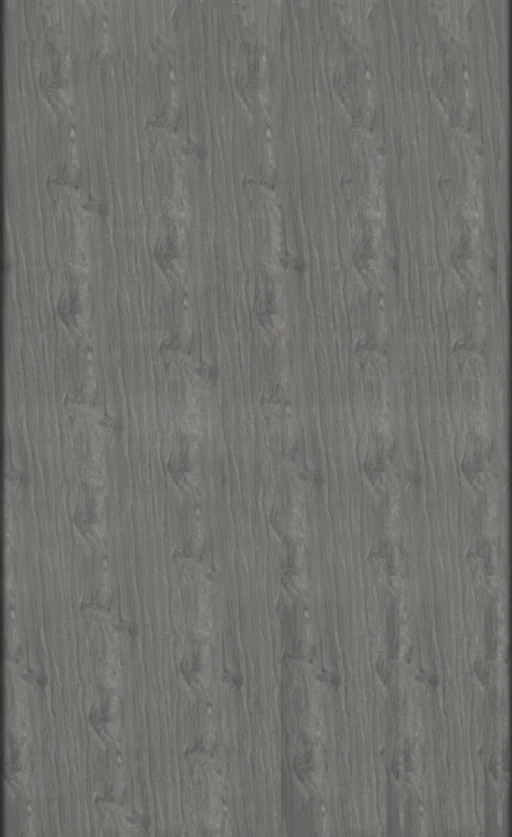
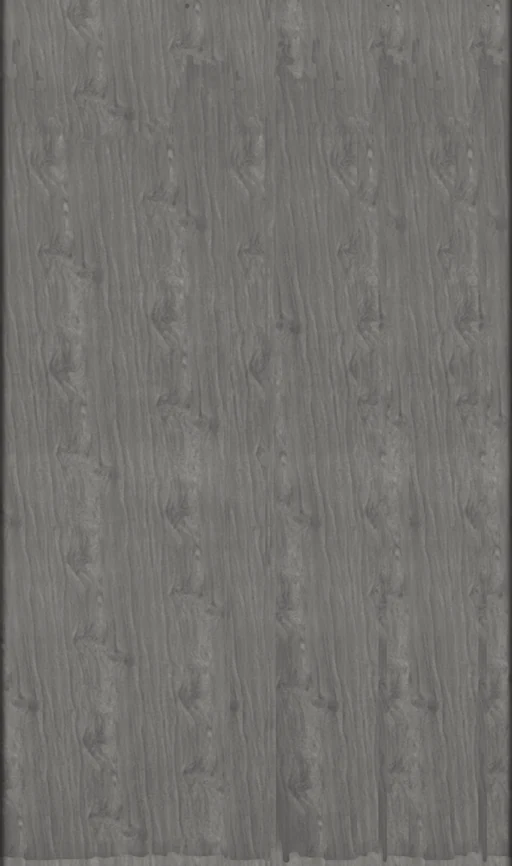
Konfigurátor: rozměry 3D náhledu z výrobního výkresu
Do teď byly odečtené z fotek a skoro každý byl vedle. Výkres od UPS Housing
(1:100, půdorys a čtyři pohledy) dává 6,276 x 5,850 (bočnice 5,400), výška
boxu 2,337 a předsazení středního modulu 225 mm místo dosavadních 45.

Otvorů je devět a jsou jen tří druhů: 8x okno 1120 x 1100 po dvou na každé
stěně, 1x 700 x 400 vzadu uprostřed a vstupní dveře 1500 x 2190. Model dosud
kreslil okna ve čtyřech různých velikostech podle toho, jak vypadala na fotkách.

Kóta 2337 je výška boxu včetně ocelových rámů, ne výška fasádního panelu;
čísla 70 a 95 jsou patky pod boxem a střešní nástavba nad ním. Výšku rámů
výkres nekótuje, je změřená z rektifikované fotky: horní pás 0,242, panel
1,945, sokl 0,150. Textura fasády se tomu musela přizpůsobit, rozteč kresby
prken vychází na 0,225 m.

Štít se kreslí po modulech, každý v rovině svého modulu — jeden štít přes celou
šířku ležel před bočními moduly a zakrýval jejich horní ocelový pás, takže na
průčelí chyběla černá příčka mezi stěnou a střechou. Lem štítu se sází na hranu
střechy, ne před ni; ze štěrbiny mezi ním a střechou byl vidět podhled jako
světlý klín.

diff --git a/assets/flexi-3d.js b/assets/flexi-3d.js
@@ -1,7 +1,7 @@
 (function (global) {
 'use strict';
 
-var TEX_VERZE = '2';
+var TEX_VERZE = '3';
 
 var TEX = {
   wood:      { soubor: 'fasada.webp',       normala: 'fasada_n.webp' },
@@ -31,12 +31,16 @@ var MAT = {
   teren:   { tex: null, tint: [0.30, 0.30, 0.29], rough: 0.95, metal: 0.00, teren: 1 }
 };
 
-var W_OPEN = 6.32, W_FOLD = 2.20, D = 5.90, H = 2.35, LIFT = 0.11;
+var W_OPEN = 6.276, W_FOLD = 2.250, D = 5.85, H = 2.337, LIFT = 0.070;
 var STRANA = (W_OPEN - W_FOLD) / 2;
 var PANEL = 1.15;                 
 var PODHLED_DLAZ = 0.66;          
 var RAM_S = 0.062;                
-var SOKL = 0.245, PREKLAD = 0.225;  
+var SOKL = 0.150, PREKLAD = 0.242;  
+var OKNO_W = 1.120, OKNO_H = 1.100, OKNO_PARAPET = 0.80;
+var OKNO_MALE_W = 0.700, OKNO_MALE_H = 0.400, OKNO_MALE_PARAPET = 1.55;
+var DVERE_W = 1.500, DVERE_H = 2.190;
+var OKNO_OD_ROHU = 1.43;
 var PRESAH = 0.26;                
 var FASADA_Z = 0.022;             
 
@@ -549,7 +553,7 @@ function Scena(canvas, opt) {
     var panelH = panelY1 - panelY0;
     var pal = S.facade === 'grey' ? 'grey' : (S.facade === 'black' ? 'black' : 'wood');
 
-    var KROK = 0.045;
+    var KROK = 0.225;
     var moduly = [];
     if (half - W_FOLD / 2 > 0.06) {
       moduly.push({ x0: -half, x1: -W_FOLD / 2, zF: zF - KROK, zB: zB + KROK, stred: false });
@@ -570,22 +574,15 @@ function Scena(canvas, opt) {
       }
       if (strana === 'front') {
         if (m.stred) {
-          var dw = Math.min(1.98, (b - a) - 0.10), dh = vyskaPole - 0.10;
-          out.push({ u: stred - dw / 2 - a, v: 0.05, w: dw, h: dh,
-            podil: [0.17, 0.33, 0.33, 0.17], hloubka: 0.080, ram: 0.062, dvere: true });
-        } else if (stred < 0) {
-          pridej(stred + 0.02, 1.32, 1.04, 0.96, { tabuli: 2 });
+          out.push({ u: stred - DVERE_W / 2 - a, v: 0.02, w: DVERE_W, h: DVERE_H,
+            podil: [0.5, 0.5], hloubka: 0.080, ram: 0.062, dvere: true });
         } else {
-          pridej(stred + 0.06, 0.94, 0.80, 1.16, { tabuli: 2 });
+          pridej(stred, OKNO_W, OKNO_H, OKNO_PARAPET, { tabuli: 2 });
         }
+      } else if (m.stred) {
+        pridej(stred, OKNO_MALE_W, OKNO_MALE_H, OKNO_MALE_PARAPET, { tabuli: 1 });
       } else {
-        if (m.stred) {
-          pridej(stred + 0.02, 0.50, 0.50, 1.42, { tabuli: 1 });
-        } else if (stred < 0) {
-          pridej(stred - 0.04, 1.30, 1.02, 1.00, { tabuli: 2 });
-        } else {
-          pridej(stred + 0.04, 1.30, 1.02, 1.00, { tabuli: 2 });
-        }
+        pridej(stred, OKNO_W, OKNO_H, OKNO_PARAPET, { tabuli: 2 });
       }
       return out;
     }
@@ -626,11 +623,12 @@ function Scena(canvas, opt) {
       var tileU = w / panelu;
       var otvory = [];
       if (S.fold > 0.45) {
-        var ok = o.ven > 0 ? { c: -0.35, w: 1.10, h: 0.88, p: 1.04 } : { c: 0.30, w: 0.92, h: 0.78, p: 1.12 };
-        var u = o.ven > 0 ? (b - ok.c - ok.w / 2) : (ok.c - ok.w / 2 - a);
-        if (u > 0.10 && u + ok.w < w - 0.10) {
-          otvory.push({ u: u, v: (LIFT + ok.p) - panelY0, w: ok.w, h: ok.h, tabuli: 2 });
-        }
+        [a + OKNO_OD_ROHU, b - OKNO_OD_ROHU].forEach(function (c) {
+          var u = (o.ven > 0 ? (b - c) : (c - a)) - OKNO_W / 2;
+          if (u > 0.10 && u + OKNO_W < w - 0.10) {
+            otvory.push({ u: u, v: (LIFT + OKNO_PARAPET) - panelY0, w: OKNO_W, h: OKNO_H, tabuli: 2 });
+          }
+        });
       }
       var rohBL, dirU, dirN;
       if (o.ven > 0) {
@@ -697,33 +695,38 @@ function Scena(canvas, opt) {
     }
 
     function stit(z, ven, otevreny, lemNa) {
-      var zk = z - ven * 0.02;
-      var yPata = y1 - PREKLAD;
       if (!otevreny) {
         var su = function (x) { return (ven > 0 ? x + half : half - x) / PANEL; };
         var sv = function (y) { return (y - panelY0) / panelH; };
-        [[-half, 0], [0, half]].forEach(function (c) {
-          var xl = c[0], xp = c[1];
-          var yl = podhledY(xl, zk), yp = podhledY(xp, zk);
-          var L0 = v3(xl, yPata, zk), P0 = v3(xp, yPata, zk);
-          var P1 = v3(xp, yp, zk), L1 = v3(xl, yl, zk);
-          var uL0 = [su(xl), sv(yPata)], uP0 = [su(xp), sv(yPata)];
-          var uP1 = [su(xp), sv(yp)], uL1 = [su(xl), sv(yl)];
-          if (ven > 0) sit.quad(pal, L0, P0, P1, L1, { uv: [uL0, uP0, uP1, uL1] });
-          else sit.quad(pal, P0, L0, L1, P1, { uv: [uP0, uL0, uL1, uP1] });
+        moduly.forEach(function (m) {
+          var zk = (ven > 0 ? m.zF : m.zB) - ven * 0.02;
+          var x0 = m.x0 - RAM_S, x1 = m.x1 + RAM_S;
+          var casti = (x0 < -0.01 && x1 > 0.01) ? [[x0, 0], [0, x1]] : [[x0, x1]];
+          casti.forEach(function (c) {
+            var xl = c[0], xp = c[1];
+            var yl = podhledY(xl, zk), yp = podhledY(xp, zk);
+            if (yl - y1 < 0.005 && yp - y1 < 0.005) return;
+            var L0 = v3(xl, y1, zk), P0 = v3(xp, y1, zk);
+            var P1 = v3(xp, yp, zk), L1 = v3(xl, yl, zk);
+            var uL0 = [su(xl), sv(y1)], uP0 = [su(xp), sv(y1)];
+            var uP1 = [su(xp), sv(yp)], uL1 = [su(xl), sv(yl)];
+            if (ven > 0) sit.quad(pal, L0, P0, P1, L1, { uv: [uL0, uP0, uP1, uL1] });
+            else sit.quad(pal, P0, L0, L1, P1, { uv: [uP0, uL0, uL1, uP1] });
+          });
         });
       }
-      var lemZ = (lemNa === undefined ? z : lemNa) + ven * 0.035;
+      var lemZ = (lemNa === undefined ? z : lemNa) - ven * 0.012;
       var kraje = [
-        [v3(-half - PRESAH, okapH, lemZ), v3(0, hreben, lemZ)],
-        [v3(0, hreben, lemZ), v3(half + PRESAH, okapH, lemZ)]
+        [v3(-half - PRESAH, okapH, lemZ), v3(0, hreben + 0.012, lemZ)],
+        [v3(0, hreben + 0.012, lemZ), v3(half + PRESAH, okapH, lemZ)]
       ];
       kraje.forEach(function (k) {
         var a = k[0], b = k[1];
+        var hloubka = okapH - okapD + 0.10;
         if (ven > 0) {
-          sit.quad('ocel', v3(a[0], a[1] - 0.19, a[2]), v3(b[0], b[1] - 0.19, b[2]), b, a, { tileU: 1.2, tileV: 0.35 });
+          sit.quad('ocel', v3(a[0], a[1] - hloubka, a[2]), v3(b[0], b[1] - hloubka, b[2]), b, a, { tileU: 1.2, tileV: 0.35 });
         } else {
-          sit.quad('ocel', v3(b[0], b[1] - 0.19, b[2]), v3(a[0], a[1] - 0.19, a[2]), a, b, { tileU: 1.2, tileV: 0.35 });
+          sit.quad('ocel', v3(b[0], b[1] - hloubka, b[2]), v3(a[0], a[1] - hloubka, a[2]), a, b, { tileU: 1.2, tileV: 0.35 });
         }
       });
     }

diff --git a/konfigurator.html b/konfigurator.html
@@ -132,7 +132,7 @@
 
 
 
-<script src="assets/flexi-3d.js?v=6"></script>
+<script src="assets/flexi-3d.js?v=7"></script>
 <script>
 const I = {
   home:    '<path d="M3 9l9-7 9 7v11a2 2 0 0 1-2 2H5a2 2 0 0 1-2-2z"/><path d="M9 22V12h6v10"/>',

diff --git a/.docs/3d/nastroje/textury.py b/.docs/3d/nastroje/textury.py
@@ -9,12 +9,20 @@ Textury nejsou kreslené, jsou to rektifikované výřezy z fotek. Fotka se pře
 homografii převede na kolmý pohled se známým měřítkem (px na metr), takže
 kresba na modelu vychází ve skutečné velikosti. Měřítko se opírá o:
 
-  fasáda   malé okno na zadní stěně (IMG_2285); jeho šířka plyne ze šířky
-           středního modulu 2,20 m, kterou dává katalog. Odtud rozteč kresby
-           prken ve fasádním plechu 0,215 m (ověřeno i na IMG_2289 a DJI_0173).
+  fasáda   malé okno na zadní stěně (IMG_2285) slouží jen jako čtyřbodová
+           reference pro homografii. Vodorovné měřítko drží šířka středního
+           modulu 2,250 m z výrobního výkresu, svislé výška panelu 2,335 m
+           (2500 celkem mínus rám 70 dole a 95 nahoře). Odtud rozteč kresby
+           prken ve fasádním plechu 0,225 m.
   prkna    rovina terasy se rektifikuje přes horizont a ohnisko z EXIF
            (IMG_2277, 14 mm). Výška fotoaparátu nad podlahou se dopočítá tak,
-           aby rozteč prken vyšla 0,148 m.
+           aby rozteč prken vyšla 0,148 m. Terasu výrobní výkres neřeší, tohle
+           číslo je pořád odečtené z fotek.
+
+OKNO_W a OKNO_H nejsou skutečné rozměry okna — je to jen čtyřbodová reference
+pro homografii, doladěná tak, aby rozteč kresby prken vyšla 0,225 m a výška
+plechu 2,335 m. Když se sáhne na jednu, druhá se posune taky, protože homografie
+není separabilní; hodnoty vznikly dvěma iteracemi.
 
 Kontrolní čísla vypisuje skript při běhu — když se rozteč po rektifikaci
 rozjede, měřítko sedí špatně.
@@ -29,7 +37,7 @@ FOTKY = os.path.join(KOREN, 'podklady-3d', 'fotky')
 CIL = os.path.join(KOREN, 'assets', 'tex')
 os.makedirs(CIL, exist_ok=True)
 
-PANEL_W, PANEL_H = 1.15, 1.88
+PANEL_W, PANEL_H = 1.15, 1.946
 PRKNO = 0.148
 DLAZDICE_PRKEN = 8
 
@@ -231,8 +239,8 @@ def zmensi(a, W, H):
     return np.asarray(obraz(a).resize((W, H), Image.LANCZOS), dtype=np.float32) / 255.
 
 
-OKNO_W, OKNO_H = 0.539, 0.560
-PLANKA = 0.220
+OKNO_W, OKNO_H = 0.5662, 0.5112
+PLANKA = 0.225
 FAS_PXM = 900.0
 FAS_OKNO = [(3352.2, 1464.3), (3829.9, 1477.5), (3829.0, 1980.2), (3330.9, 1975.6)]
 FAS_BILA = np.array([0.94994, 1.00057, 1.04949])
@@ -247,6 +255,17 @@ def rekt_zadni_stena():
     o, mimo = vzorkuj(a, H, 6600, 3400, ox=-3100, oy=-1300)
     o[mimo] = 0
     return np.clip(o / FAS_BILA, 0, 1.2)
+
+
+def svisly_rozsah(stena, x0, x1):
+    """Najde, kde na stěně začíná a končí fasádní plech; mimo něj je ocelový rám."""
+    P = FAS_PXM
+    pas = stena[:, int(x0 * P + 3100):int(x1 * P + 3100)]
+    mx, mn = pas.max(axis=2), pas.min(axis=2)
+    je = ((mx > 0.16) & ((mx - mn) / np.maximum(mx, 1e-3) > 0.22)
+          & (pas[..., 0] > pas[..., 1] * 1.25))
+    ys = np.where(je.mean(axis=1) > 0.6)[0]
+    return (ys.min() - 1300) / P, (ys.max() - 1300) / P
 
 
 def fasada():
@@ -265,7 +284,9 @@ def fasada():
         return A[int(y0 * P + 1300):int(y1 * P + 1300),
                  int(x0 * P + 3100):int(x1 * P + 3100)].copy()
 
-    X0, X1, Y0, Y1 = -0.578, 1.198, -0.03, 1.90
+    X0, X1 = -0.605, 1.253
+    Y0, Y1 = svisly_rozsah(stena, -0.58, -0.42)
+    print('  plech svisle %.3f .. %.3f m (%.3f m, panel %.3f)' % (Y0, Y1, Y1 - Y0, PANEL_H))
     c = vyrez(stena, X0, X1, Y0, Y1)
     m = vyrez(spatne, X0, X1, Y0, Y1)
     print('  zakryto oknem, růžicí a odlesky: %.1f %%' % (100 * m.mean()))

diff --git a/.docs/3d/STAV-3D.md b/.docs/3d/STAV-3D.md
@@ -143,18 +143,51 @@ návštěvník uvidí staré textury s novým modelem.
 
 ## Rozměry, které model používá
 
-Z webu (ověřené): 6,32 × 5,90 m rozloženo, 2,20 m složeno, výška 2,48 m.
+Od 25. 8. 2026 jsou z **výrobního výkresu** (UPS Housing, 01/01, měřítko 1:100,
+`~/Desktop/Expandable container house drawing.pdf`). Do té doby byly odečtené
+z fotek a většina byla vedle.
 
-Odečtené z fotek (poměry sedí, absolutní čísla čekají na doměření):
-- výška stěny 2,35 m, podlaha 0,11 m nad terénem
-- ocelový sokl 0,245 m, horní pás 0,225 m, sloupky 0,124 m
-- rozteč spár ve fasádním plechu 1,15 m
-- přesah střechy 0,26 m, lem 0,19 m, hřeben 1,24 m nad okapem (~20°)
-- terasa hluboká 2,15 m, prkna po 148 mm se spárou 5 mm
-- okna — průčelí: velké 1,32 × 1,04 (parapet 0,96), prosklené dveře
-  se dvěma světlíky přes skoro celý střední modul, menší vpravo 0,94 × 0,80
-  (parapet 1,16); zadní: 2× 1,30 × 1,02 (parapet 1,00), mezi nimi
-  0,50 × 0,50 (parapet 1,42); boky: vpravo 1,10 × 0,88, vlevo 0,92 × 0,78
+| co | model | výkres |
+|---|---|---|
+| šířka rozloženo | 6,276 | 2013 + 2250 + 2013 = 6276 |
+| střední (přepravní) modul | 2,250 | 2250 |
+| boční moduly | 2,013 | 2013 |
+| hloubka přes střední modul | 5,850 | 225 + 5400 + 225 = 5850 |
+| hloubka bočnice | 5,400 | 5400 |
+| výška boxu | 2,337 | 2337 |
+| pod boxem (patky) | 0,070 | 70 |
+| nad boxem (střecha) | — kreslí se zvlášť | 95 |
+| předsazení středního modulu | 0,225 | 225 na každé straně |
+
+**Kóta 2337 je výška boxu VČETNĚ ocelových rámů, ne výška fasádního panelu.**
+Výšku rámů výkres nekótuje, takže se bere z poměru změřeného na rektifikované
+fotce (IMG_2285): horní pás **0,242**, panel **1,945**, sokl **0,150**. Součet
+sedí na 2,337. Čísla 70 a 95 jsou patky pod boxem a střešní nástavba nad ním —
+kdo si je splete s rámy, dostane dům bez černé příčky nad okny.
+
+**Otvorů je devět a jsou jen tří druhů:**
+
+| označení | ks | rozměr | kde |
+|---|---|---|---|
+| W1 | 8 | 1120 × 1100 | po dvou na každé ze čtyř stěn |
+| W2 | 1 | 700 × 400 | zadní stěna, uprostřed, parapet 1,55 |
+| D1 | 1 | 1500 × 2190 | průčelí, uprostřed |
+
+Okna na bočnicích jsou 1,43 m od každého rohu, parapet všech W1 je 0,80 m nad
+spodkem boxu. D2 a D3 (800 × 2050) jsou dveře vnitřní, model je nekreslí.
+
+**Předsazení středního modulu je 225 mm, ne 45.** První kolo ho odečetlo z fotky
+a bylo pětkrát vedle.
+
+## Co výkres neřeší
+
+Na zadní stěně kreslí model kulatou větrací růžici a tři odpadní vývody u paty
+podle fotek — na výkresu nejsou. Rozteč spár ve fasádním plechu (`PANEL`, 1,15 m)
+výkres taky neuvádí, drží se odečtená hodnota.
+
+Na fotkách má malé okno na zadní stěně poměr stran zhruba 1:1, kdežto W2 je podle
+výkresu 700 × 400, tedy výrazně na šířku. Model kreslí výkres. Buď se dodávaná
+verze liší, nebo je na fotkách jiná zakázka.
 
 ## Tvar střechy
 
@@ -190,9 +223,7 @@ model nekreslí, Tomáš je zamítl — dům sedí na terénu.
 
 ## Co zbývá
 
-1. **Kóty** — výška stěny, přesah střechy, skutečné rozměry oken.
-   Výkres od výrobce nebo deset minut s metrem.
-2. **Fotky šedé a černé fasády** — v sadě nejsou, všechny jednotky jsou cedrové.
+1. **Fotky šedé a černé fasády** — v sadě nejsou, všechny jednotky jsou cedrové.
    Ty dvě varianty jsou přebarvená stejná kresba dřeva.
    Doměřit rozteč prken terasy metrem — 0,148 m je pořád odhad z prvního kola.
 3. **Ověřit tvar střechy s výrobcem** — fotografované jednotky mají plochou
@@ -214,6 +245,16 @@ takže i s rozbitou CSS jen vykreslí menší náhled.
 
 ## Na co si dát pozor (draze zaplacené)
 
+- **Lem štítu patří přesně na hranu střechy, ne před ni.** Když je posunutý
+  dopředu, zůstane mezi ním a hranou střechy štěrbina a tou je při pohledu
+  shora vidět podhled — na štítu z toho vznikne světlý klín, který vypadá jako
+  rozbitá textura. Lem se proto sází o 12 mm dovnitř a je hlubší než tloušťka
+  střechy, aby hranu s jistotou přebral.
+- **Štít se musí kreslit po modulech, každý v rovině svého modulu.** Střední
+  modul je předsazený o 225 mm, takže jeden štít přes celou šířku leží před
+  bočními moduly a zakryje jejich horní ocelový pás — na průčelí pak chybí
+  černá příčka mezi stěnou a střechou. Štít taky začíná až na `y1`, ne na
+  `y1 - PREKLAD`, jinak si s tím pásem leze do cesty.
 - **Podhled nesmí být jedna plocha přes celý půdorys.** Když se natáhne i nad
   interiér, protne štítovou stěnu a na štítu z něj zůstane šedý klín, který
   vypadá jako rozbitá textura. Kreslí se proto po pásech: zadní přesah, oba
